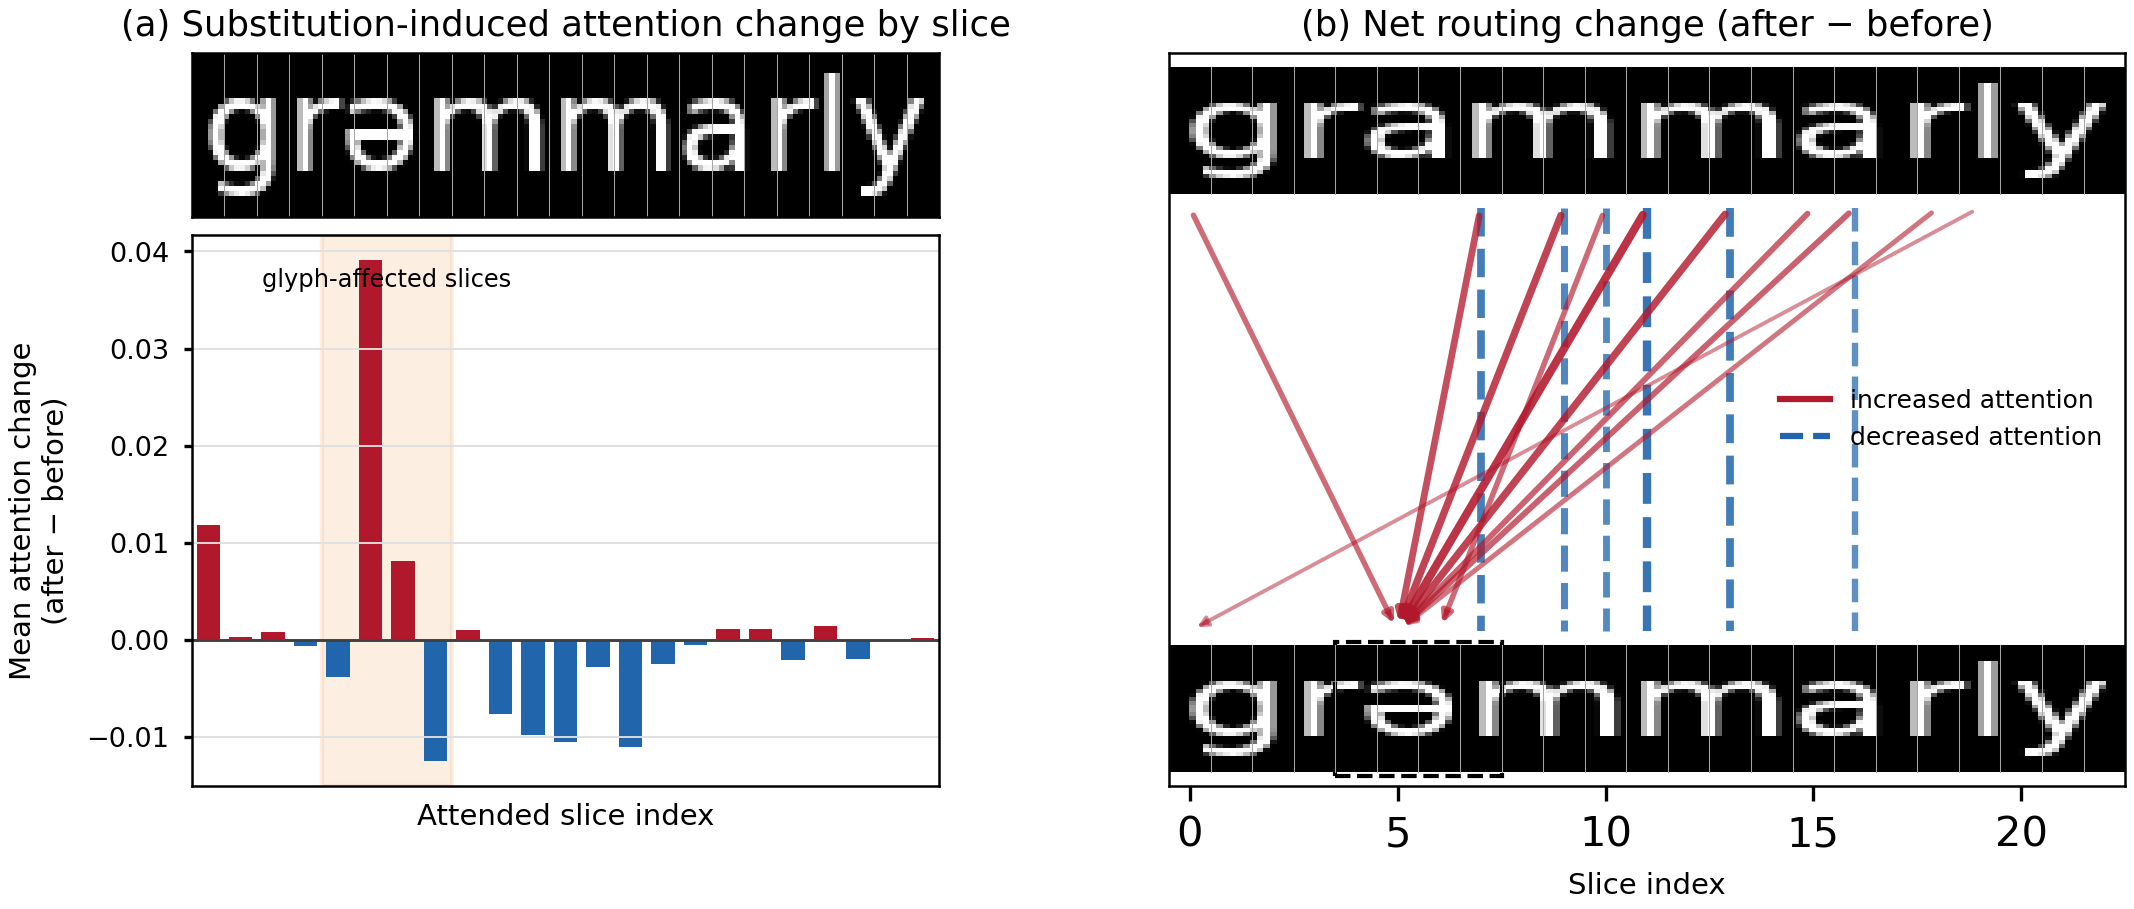
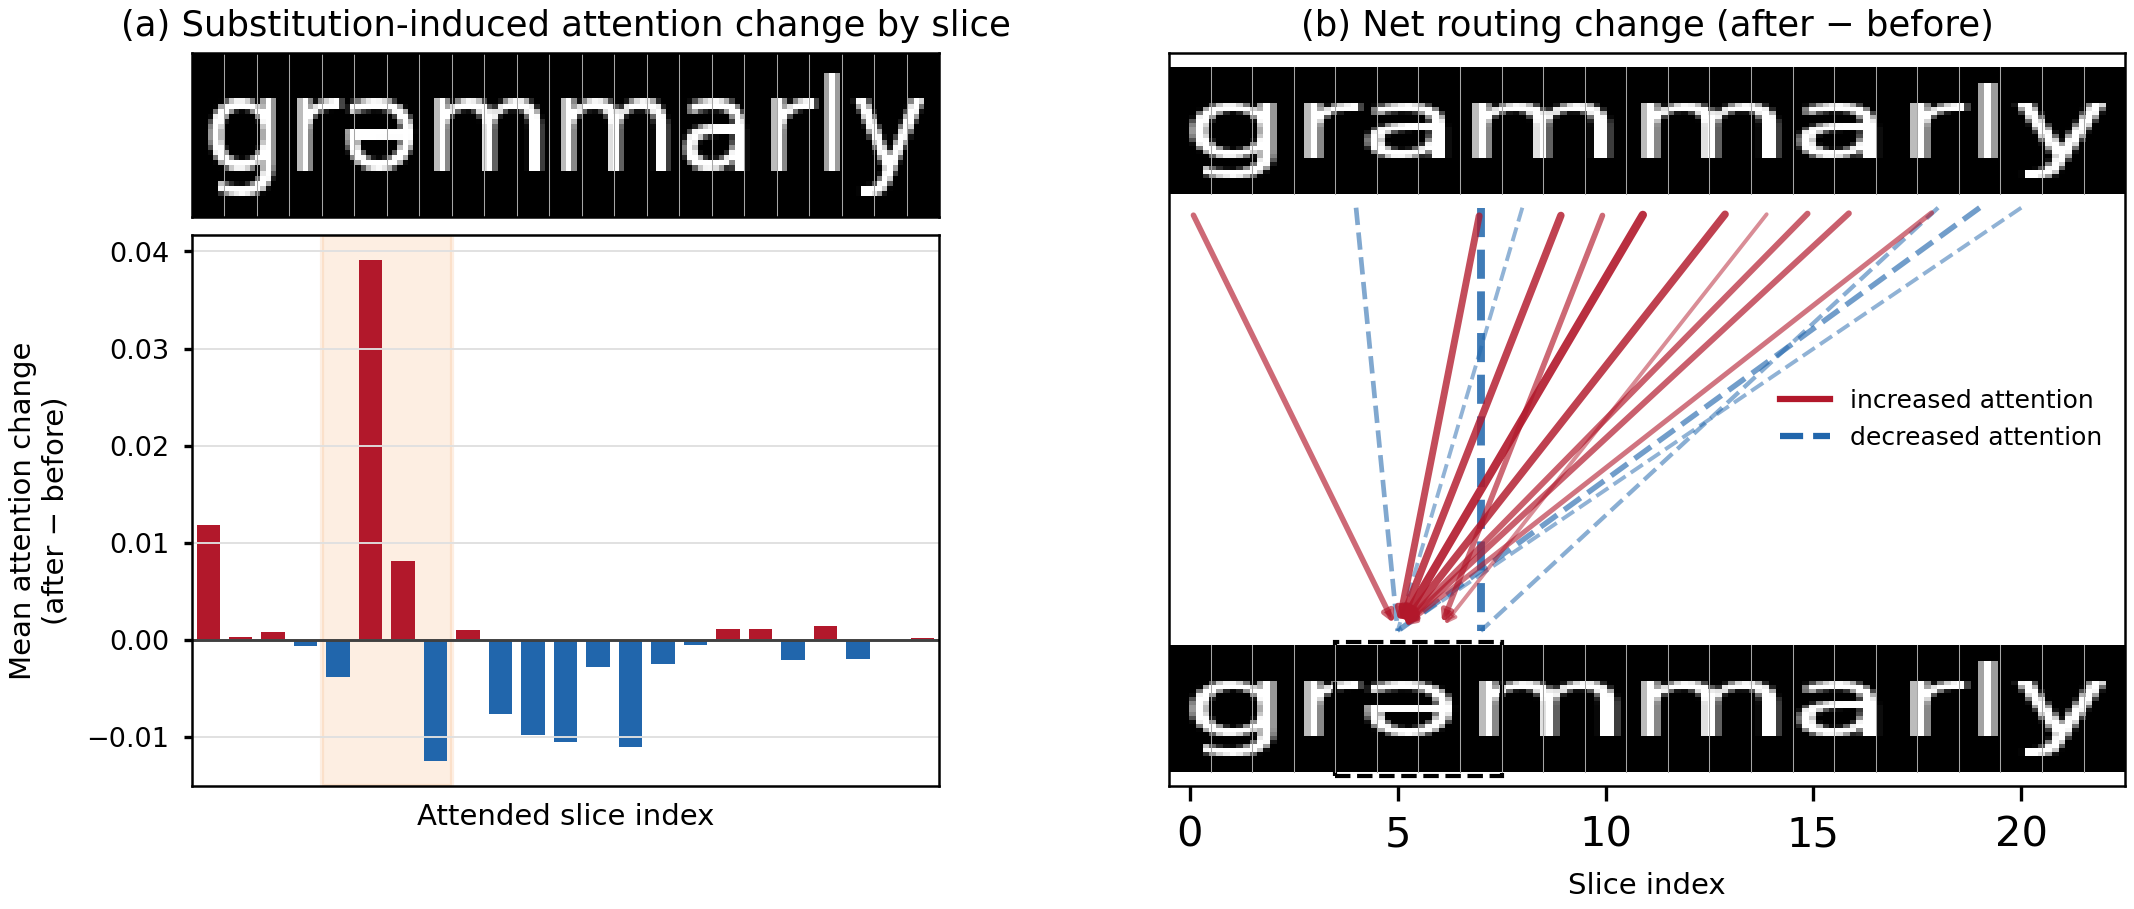
Focus routing arrows on substituted glyph

diff --git a/synth_dataset/scripts/build_paper_alignment_figures.py b/synth_dataset/scripts/build_paper_alignment_figures.py
@@ -974,7 +974,11 @@ def plot_cross_attention_before_after_routing(
     def strongest_edges(
         values: np.ndarray, count: int, *, positive: bool
     ) -> list[tuple[int, int, float]]:
-        flat = values.ravel()
+        # Explain only routing changes into the substituted glyph footprint.
+        # Global cross-attention also produces genuine nonlocal changes, but
+        # those do not explain the local substitution shown in this figure.
+        local_values = values[:, changed_indices]
+        flat = local_values.ravel()
         order = np.argsort(flat)
         if positive:
             order = order[::-1]
@@ -983,8 +987,9 @@ def plot_cross_attention_before_after_routing(
             value = float(flat[flat_index])
             if (positive and value <= 0.0) or (not positive and value >= 0.0):
                 break
-            query, key = np.unravel_index(flat_index, values.shape)
-            edges.append((int(query), int(key), value))
+            query, local_key = np.unravel_index(flat_index, local_values.shape)
+            key = int(changed_indices[local_key])
+            edges.append((int(query), key, value))
             if len(edges) >= count:
                 break
         return edges
@@ -1032,14 +1037,6 @@ def plot_cross_attention_before_after_routing(
     received.set_ylabel("Mean attention change\n(after − before)", fontsize=7)
     received.tick_params(labelsize=6.5, length=2)
     received.grid(axis="y", color="0.88", linewidth=0.45)
-    received.text(
-        np.mean(changed_span),
-        received.get_ylim()[1] * 0.92,
-        "glyph-affected slices",
-        ha="center",
-        va="top",
-        fontsize=5.8,
-    )
 
     route = figure.add_subplot(outer[1])
     route.imshow(
@@ -1255,7 +1252,8 @@ def main() -> int:
         "panel shows the signed change in mean attention received by each slice after subtracting "
         "the unchanged-name baseline, with the glyph-affected span shaded. This subtraction "
         "removes the shared sequence-boundary anchor. The right panel "
-        "shows the largest signed entries of ΔA = A_spoof - A_clean: red arrows indicate "
+        "shows the largest signed entries of ΔA = A_spoof - A_clean whose attended slices "
+        "intersect the substituted glyph: red arrows indicate "
         "increased query-to-key attention and blue dashed links indicate decreased attention. "
         "Attention weights are from Block 1 in the real-query-to-variant-key direction and are "
         "averaged across heads.\n",
